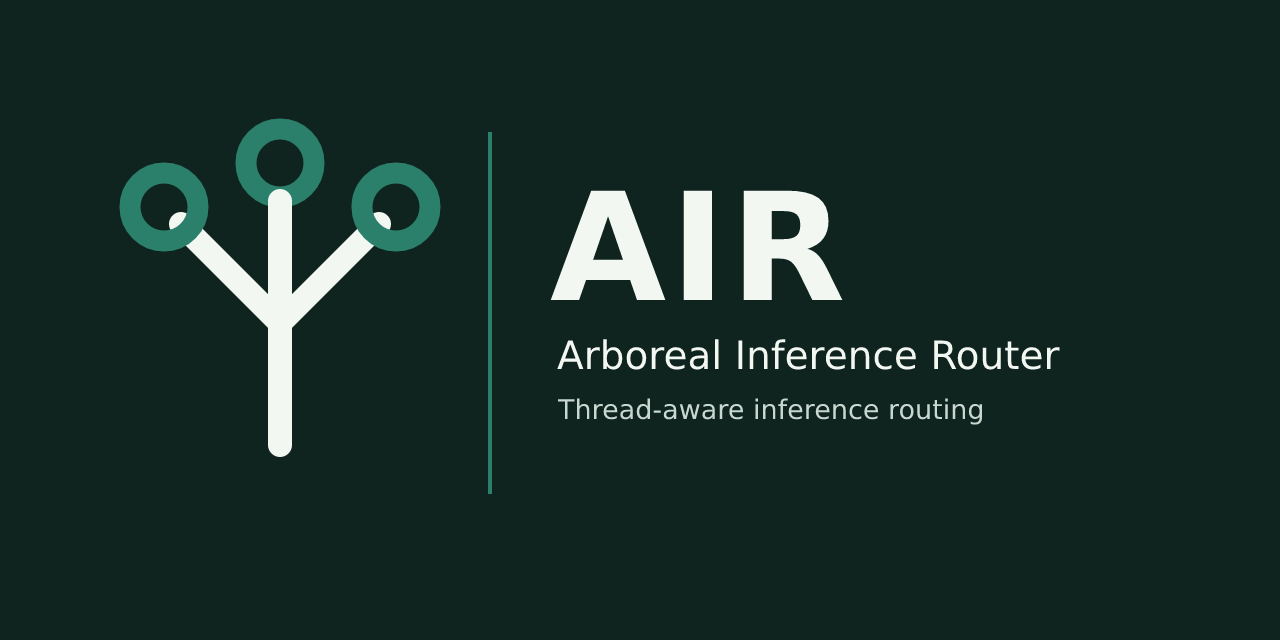
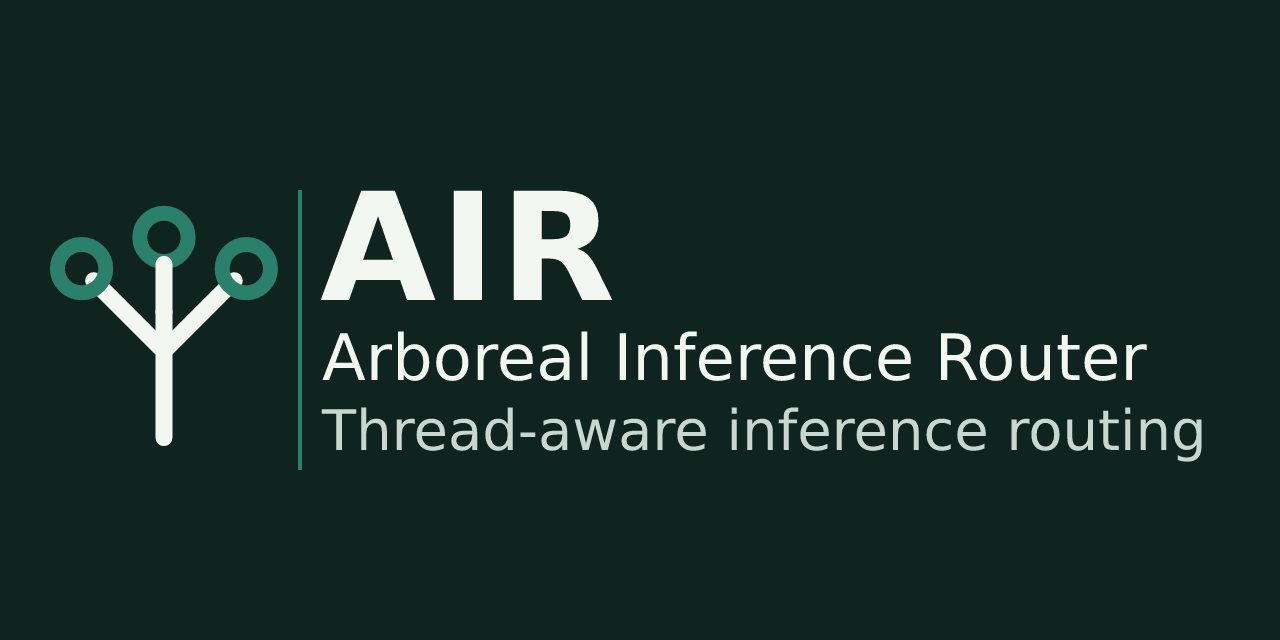
docs: a social card you can actually read in a link preview, measured rather than eyeballed
The committed card rendered at 1280x640 with capital heights of 109, 29 and 20 px.
A GitHub link preview shows the card near 600 px wide, so those two lower lines land
at roughly 14 px and 9 px: the tagline is decoration at that size.

Same artwork, same three lines of copy. The mark group scales 0.71 and moves left, the
divider moves x=490 -> x=300, and the text column widens to 320..1206. Measured out of
the rendered pixels, not out of the font sizes in the markup: caps now 109 / 48 / 42 px
against a 40 px floor, no ink at all in a 3 px border ring (checked against the field
colour and against any colour, so a clipped accent in #2B806C at luminance ~108 cannot
pass as "no ink"), 79 px of right margin, and all three bands still carrying ink after a
downscale to 640x320.

Provenance in docs/images/README.md carries the new size and sha256, the floor and how
it is measured, and the limit: the floor holds for the face that resolves on this box
(DejaVu Sans, cap ratio ~0.73 em). A face with a smaller ratio would pull the 56 px
tagline under 40 px, so re-measure any raster rendered elsewhere.

Verified before committing: rendering the committed SVG with the documented resvg 2.6.2
pipeline yields 1280x640, 38,150 B, sha256 cee3237b7f980d12259d6aad082a9473f12214115b36e0239d85c8147ec98f09
byte-for-byte, twice; the committed PNG is exactly those bytes. No code or workflow
changed. Not done by this commit: the upload itself, which only a person can press
[…]

Changed region(s): [[0.0312, 0.1875, 0.9375, 0.7188]]

diff --git a/docs/images/README.md b/docs/images/README.md
@@ -33,7 +33,7 @@ the regeneration command is below.
 
 | File | Rendered from | Renderer | Font resolved | Size | sha256 |
 |---|---|---|---|---|---|
[3 lines of base64/hex data omitted]
 
 The SVGs stay authored against `system-ui, -apple-system, BlinkMacSystemFont, 'Segoe UI', sans-serif`, which is
@@ -47,3 +47,26 @@ Byte-identical on re-render, so the pipeline is deterministic:
 mkdir -p /tmp/svg-render && cd /tmp/svg-render && npm init -y >/dev/null && npm install @resvg/resvg-js
 node /tmp/svg-render/export.js   # font: {defaultFontFamily:'DejaVu Sans', sansSerifFamily:'DejaVu Sans', loadSystemFonts:true}
 ```
+
+## The legibility floor on the social card, and what it is proven against
+
+The card was redrawn once. The first version rendered at 1280×640 with capital heights of **109, 29 and 20 px**
+for its three lines: the wordmark was fine and the two lines under it were not something you could read in a
+link preview or a mobile preview column. The current artwork keeps the same three lines and the same mark, moves
+the mark group left (scale 0.71) and the divider from `x=490` to `x=300`, and widens the text column to
+`320..1206`; the same measurement now gives **109, 48 and 42 px**. Nothing was accepted on the strength of a
+font size in the markup — the numbers come out of the rendered pixels.
+
+How they are measured, so the claim can be re-run: split the raster into horizontal bands of inked rows in the
+text column, take a band's cap height as its first inked row to the last row still carrying at least 25% of the
+band's peak ink (a descender tail — the `g` in "routing" — is a couple of thin strokes and would otherwise
+inflate the number), and require **at least 40 px**. Alongside it: no ink at all in a 3 px border ring, checked
+both against the field colour and against *any* colour so a clipped accent in `#2B806C` (luminance ≈ 108) cannot
+hide as "no ink"; 79 px of right margin to the rightmost ink; and all three bands still carrying ink after a
+downscale to 640×320, which is what a dense preview column actually shows.
+
+One limit worth stating: the floor is proven for the face that resolves **here**. This box renders the declared
+system font stack as DejaVu Sans, whose capital height runs about 0.73 em, so the 56 px tagline lands at 42 px.
+A face with a smaller cap ratio — some system UI faces are nearer 0.70 or below — would pull that line under the
+floor. If the card is ever rendered on another machine, re-run the measurement on the raster it produces rather
+than trusting the `font-size` attribute.
